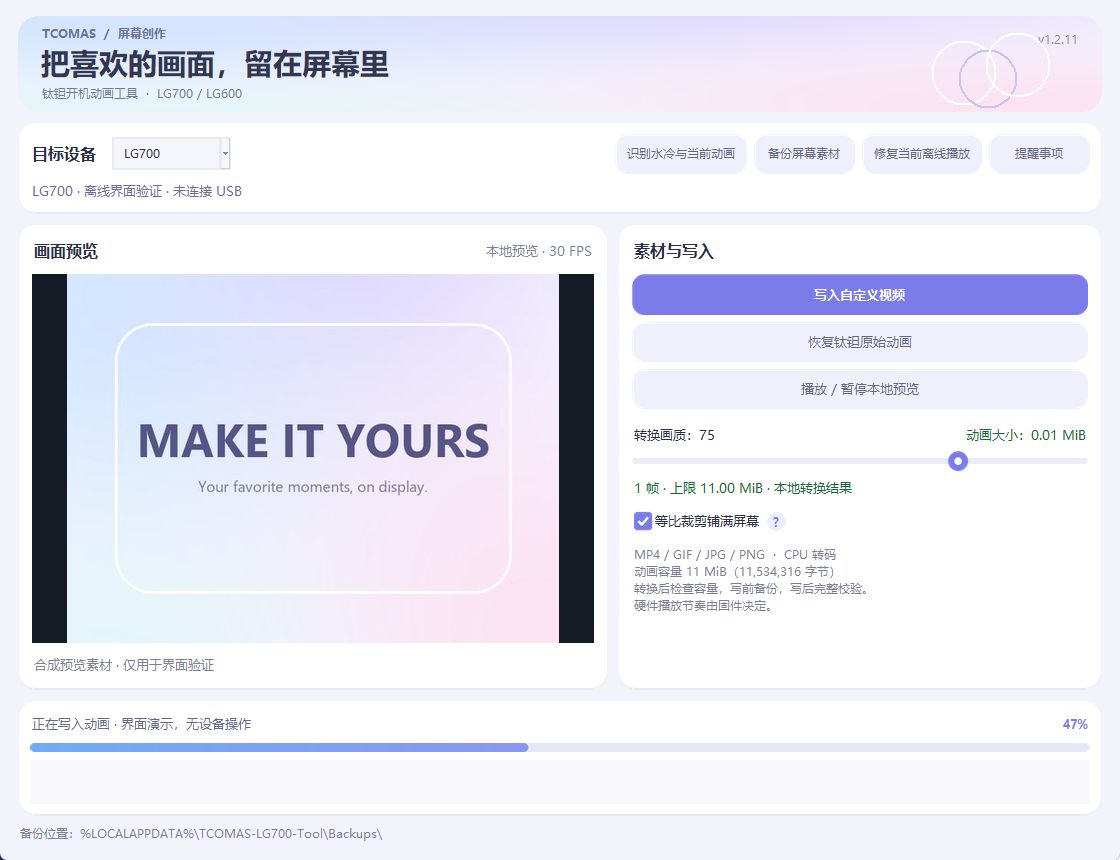
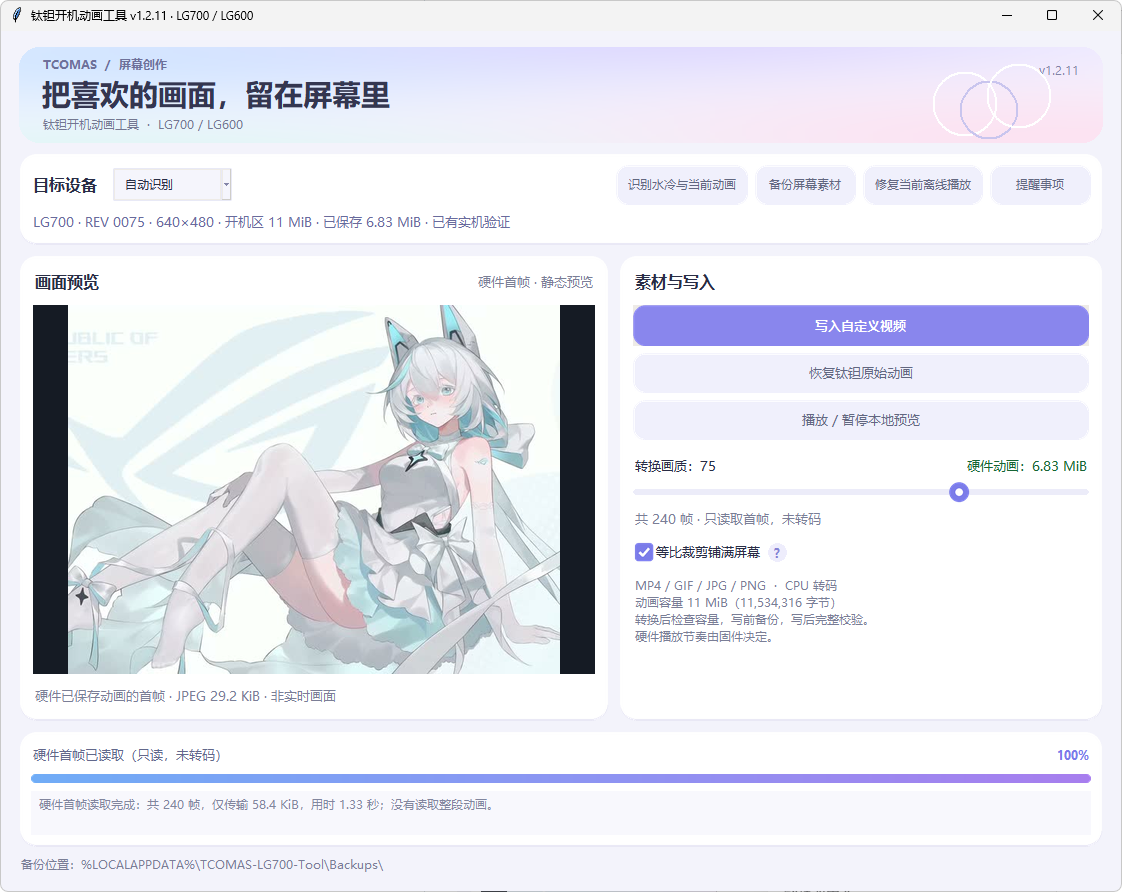
docs: update program preview and add Bilibili feedback link

diff --git a/README.md b/README.md
@@ -31,7 +31,7 @@
 
 ## 💬 问题反馈 · Issues
 
-遇到故障或报错？请前往 [Issues 提交问题](https://github.com/GuoWQ222/TCOMAS-Boot-Animation-Tool/issues/new)，**完整描述操作步骤、报错内容和出现问题的全过程**，便于定位原因。
+遇到故障或报错？请前往 [Issues 提交问题](https://github.com/GuoWQ222/TCOMAS-Boot-Animation-Tool/issues/new)或在 [B站评论区](https://www.bilibili.com/video/BV1NEHG6NEny/?spm_id_from=333.1387.homepage.video_card.click&vd_source=988a3430b47ac87e735b1c75c29ae8f6)提出，**完整描述操作步骤、报错内容和出现问题的全过程**，便于定位原因。
 
 > [!IMPORTANT]
 > 报错后，先确认当前操作已经停止，再正常关机并断电（拔掉电源线）。**确保水冷屏幕完全黑屏后，再重新上电。** 主机重启不一定切断屏幕供电；写入过程中请勿断电。
